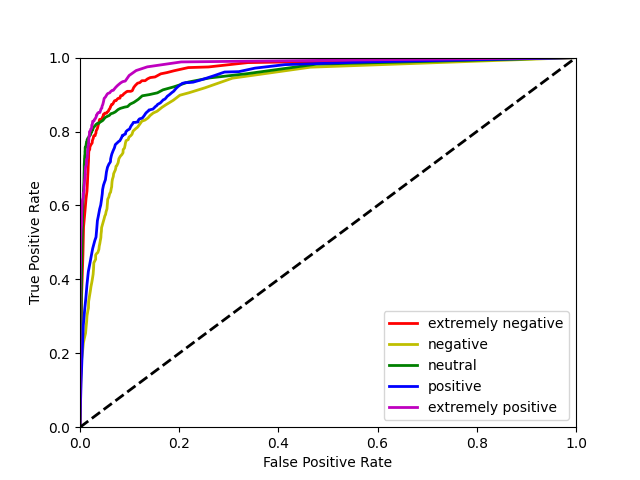
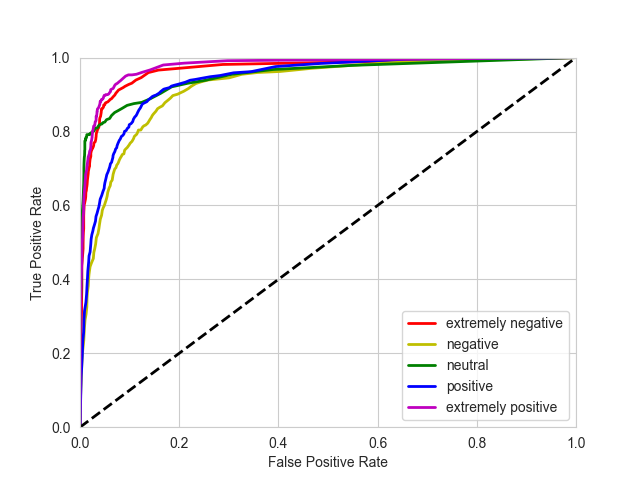
Added final results refactor

diff --git a/src/util/extraction.py b/src/util/extraction.py
@@ -1,5 +1,10 @@
 import numpy as np
 import tensorflow as tf
+import pandas as pd
+from cycler import cycler
+from tabulate import tabulate
+import matplotlib.pyplot as plt
+import seaborn as sns
 from unicodedata import category as unicat
 from nltk.probability import FreqDist
 from sklearn.base import BaseEstimator, TransformerMixin
@@ -8,7 +13,10 @@ from keras.preprocessing import sequence
 from tensorflow.keras import activations
 
 from src.util.loading import load_simple_sentence_dataset
-from src.util import softmax_output_to_list_label_by_maximum
+from src.util.util import softmax_output_to_list_label_by_maximum, list_label_to_number_label, \
+    class_number_to_string_label
+
+sns.set_style('whitegrid')
 
 
 class WordLexicolizer(BaseEstimator, TransformerMixin):
@@ -18,12 +26,12 @@ class WordLexicolizer(BaseEstimator, TransformerMixin):
 	and a document length limited/padded to doclen
 	"""
 
-    def __init__(self, nfeatures=100000, doclen=60, normalizers= []):
+    def __init__(self, nfeatures=100000, doclen=60, normalizers=[]):
         self.nfeatures = nfeatures
         self.doclen = doclen
         self.normalizers = normalizers
         self.lexicon = None
-        
+
     def normalize(self, doc):
         for norm in self.normalizers:
             doc = norm(doc)
@@ -45,15 +53,15 @@ class WordLexicolizer(BaseEstimator, TransformerMixin):
 		"""
         return [
             self.lexicon[token]
-            if token in self.lexicon.keys() else 0 # Unknown reserved as 0
+            if token in self.lexicon.keys() else 0  # Unknown reserved as 0
             for token in norm_doc
         ]
-    
-    def fit(self, documents, y= None):
+
+    def fit(self, documents, y=None):
         docs = [list(self.normalize(doc)) for doc in documents]
         self.lexicon = self.get_lexicon(docs)
         print('The most common word according to the encoding is: ')
-        print([t[0] for t in sorted(self.lexicon.items(), key= lambda i: i[1])][:100])
+        print([t[0] for t in sorted(self.lexicon.items(), key=lambda i: i[1])][:100])
         return self
 
     def transform(self, documents):
@@ -78,7 +86,7 @@ class ResultsExtractor:
         self.logits = logits
         ___, ___, ___, self.test_y = load_simple_sentence_dataset()
 
-    def retrieve_per_class_roc(self):
+    def __retrieve_per_class_roc(self):
         """
         Function that retrieves a per-class list of touples containing TPR and FPR arrays
         with values through all possible thresholds ranging from 0 -> 1.
@@ -113,7 +121,7 @@ class ResultsExtractor:
 
         return class_list_of_tpr_and_fpr
 
-    def retrieve_per_class_metrics(self):
+    def __retrieve_per_class_metrics(self):
         """
         Function that retrieves a per-class list of metrics
         """
@@ -149,7 +157,8 @@ class ResultsExtractor:
 
         return per_class_metrics
 
-    def retrieve_total_metrics(self):
+    # noinspection PyPackageRequirements
+    def __retrieve_total_metrics(self):
         """
         Function that retrieves a total metrics
         """
@@ -183,3 +192,95 @@ class ResultsExtractor:
         }
 
         return total_metrics
+
+    def save_confusion_matrix(self, filepath: str):
+        predictions = np.array(tf.math.softmax(self.logits).numpy())
+        predictions = np.array(softmax_output_to_list_label_by_maximum(predictions)).astype(np.int)
+        predictions = np.array([list_label_to_number_label(label) for label in predictions])
+        test_y = np.array([list_label_to_number_label(label) for label in self.test_y])
+
+        plt.figure()
+        plt.title('Test')
+        tick_labels = ['Extremely\nNegative', 'Negative', 'Neutral', 'Positive', 'Extremely\nPositive']
+        crosstab = pd.crosstab(test_y, predictions).fillna(0).astype(int)
+        crosstab.columns.name = ''
+        crosstab.index.name = ''
+        sns.heatmap(
+            crosstab,
+            annot=True,
+            fmt='d',
+            xticklabels=tick_labels,
+            yticklabels=tick_labels
+        )
+        plt.yticks(va='center')
+        plt.tight_layout()
+        plt.savefig(filepath + '/' + 'confusion_matrix.png')
+
+    def save_per_class_roc_curves(self, filepath: str):
+        """
+        Function that takes in a per-class list with FPR and TPR sequences throughout thresholding.
+        From this it generates a ROC curve plot per class.
+        """
+        per_class_roc_curves = self.__retrieve_per_class_roc()
+
+        plt.figure()
+        plt.rc('axes', prop_cycle=(cycler('color', ['r', 'y', 'g', 'b', 'm'])))
+        for class_number, (tpr, fpr) in enumerate(per_class_roc_curves):
+            plt.plot(fpr, tpr, lw=2, label=class_number_to_string_label(class_number).lower())
+        plt.plot([0, 1], [0, 1], color='black', lw=2, linestyle='--')
+        plt.xlim([0.0, 1.0])
+        plt.ylim([0.0, 1.0])
+        plt.xlabel('False Positive Rate')
+        plt.ylabel('True Positive Rate')
+        plt.legend()
+        plt.savefig(filepath + '/' + 'per_class_roc_curves.png')
+
+    def save_per_class_metrics(self, filepath: str):
+        per_class_metrics = self.__retrieve_per_class_metrics()
+
+        header = ["Metric"]
+        for class_number, class_metric in enumerate(per_class_metrics):
+            header.append("Class [" + class_number_to_string_label(class_number) + "]")
+
+        row_list = []
+        for index, metric_name in enumerate(list(per_class_metrics[0].keys())):
+            row_list.append([metric_name])
+        for index, row in enumerate(row_list):
+            for class_number, class_metric in enumerate(per_class_metrics):
+                row_list[index].append('{:.2f}'.format(class_metric[row_list[index][0]]))
+
+        tabular: str = tabulate(row_list, headers=header, tablefmt='orgtbl', numalign="right", floatfmt=".2f")
+
+        with open(filepath + '/' + 'per_class_metrics.txt', 'w') as file:
+            file.write(tabular)
+            file.close()
+
+    def save_macro_averaged_metrics(self, filepath: str):
+        per_class_metrics = self.__retrieve_per_class_metrics()
+        header = ["Metric", "Macro-Averaging"]
+
+        row_list = []
+        for index, metric_name in enumerate(list(per_class_metrics[0].keys())):
+            row_list.append([metric_name])
+
+            macro_number = 0
+            number_of_classes = len(per_class_metrics)
+            for class_number in range(0, number_of_classes):
+                macro_number += per_class_metrics[class_number][metric_name]
+            macro_number /= number_of_classes
+            row_list[index].append('{:.2f}'.format(macro_number))
+
+        tabular: str = tabulate(row_list, headers=header, tablefmt='orgtbl', numalign="right", floatfmt=".2f")
+
+        with open(filepath + '/' + 'macro_metrics.txt', 'w') as file:
+            file.write(tabular)
+            file.close()
+
+    @staticmethod
+    def save_best_hyperparameters(hyperparameters, filepath: str):
+        with open(filepath + '/' + 'best_hyperparameters.txt', 'w') as file:
+            file.write('embedding_output_dim: {:.5f}\n'.format(hyperparameters.get('embedding_output_dim')))
+            file.write('gru_hidden_units: {:.5f}\n'.format(hyperparameters.get('gru_hidden_units')))
+            file.write('gru_dropout: {:.5f}\n'.format(hyperparameters.get('gru_dropout')))
+            file.write('learning_rate: {:.5f}\n'.format(hyperparameters.get('learning_rate')))
+            file.close()

diff --git a/src/scripts/run_gru_simple.py b/src/scripts/run_gru_simple.py
@@ -1,4 +1,5 @@
 import os
+import pandas as pd
 import numpy as np
 import tensorflow as tf
 import kerastuner as kt
@@ -9,7 +10,6 @@ from src.util.constants import *
 from src.util.extraction import ResultsExtractor
 from src.util.generation import Generator
 from src.util.loading import load_simple_sentence_dataset
-from src.util.visualization import *
 
 os.environ["TF_FORCE_GPU_ALLOW_GROWTH"] = "true"
 physical_devices = tf.config.list_physical_devices('GPU')
@@ -66,7 +66,8 @@ model.save(PATH_TO_MODEL_GRU_SIMPLE_SAVE)
 # Save the results
 predictions = model.predict(x=test_x)
 results = ResultsExtractor(predictions)
-save_macro_averaged_metrics(results.retrieve_per_class_metrics(), PATH_TO_RESULT_GRU_SIMPLE)
-save_per_class_metrics(results.retrieve_per_class_metrics(), PATH_TO_RESULT_GRU_SIMPLE)
-save_per_class_roc_curves(results.retrieve_per_class_roc(), PATH_TO_RESULT_GRU_SIMPLE)
-save_best_hyperparameters(best_hyperparameters, PATH_TO_RESULT_GRU_SIMPLE)
+results.save_per_class_roc_curves(PATH_TO_RESULT_GRU_SIMPLE)
+results.save_confusion_matrix(PATH_TO_RESULT_GRU_SIMPLE)
+results.save_per_class_metrics(PATH_TO_RESULT_GRU_SIMPLE)
+results.save_macro_averaged_metrics(PATH_TO_RESULT_GRU_SIMPLE)
+results.save_best_hyperparameters(best_hyperparameters, PATH_TO_RESULT_GRU_SIMPLE)

diff --git a/src/scripts/run_gru_bidirectional.py b/src/scripts/run_gru_bidirectional.py
@@ -9,7 +9,6 @@ from src.util.constants import *
 from src.util.extraction import ResultsExtractor
 from src.util.generation import Generator
 from src.util.loading import load_simple_sentence_dataset
-from src.util.visualization import *
 
 os.environ["TF_FORCE_GPU_ALLOW_GROWTH"] = "true"
 physical_devices = tf.config.list_physical_devices('GPU')
@@ -66,7 +65,8 @@ model.save(PATH_TO_MODEL_GRU_BIDIRECTIONAL_SAVE)
 # Save the results
 predictions = model.predict(x=test_x)
 results = ResultsExtractor(predictions)
-save_macro_averaged_metrics(results.retrieve_per_class_metrics(), PATH_TO_RESULT_GRU_BIDIRECTIONAL)
-save_per_class_metrics(results.retrieve_per_class_metrics(), PATH_TO_RESULT_GRU_BIDIRECTIONAL)
-save_per_class_roc_curves(results.retrieve_per_class_roc(), PATH_TO_RESULT_GRU_BIDIRECTIONAL)
-save_best_hyperparameters(best_hyperparameters, PATH_TO_RESULT_GRU_BIDIRECTIONAL)
+results.save_per_class_roc_curves(PATH_TO_RESULT_GRU_BIDIRECTIONAL)
+results.save_confusion_matrix(PATH_TO_RESULT_GRU_BIDIRECTIONAL)
+results.save_per_class_metrics(PATH_TO_RESULT_GRU_BIDIRECTIONAL)
+results.save_macro_averaged_metrics(PATH_TO_RESULT_GRU_BIDIRECTIONAL)
+results.save_best_hyperparameters(best_hyperparameters, PATH_TO_RESULT_GRU_BIDIRECTIONAL)

diff --git a/src/scripts/run_bert.py b/src/scripts/run_bert.py
@@ -7,7 +7,6 @@ from transformers import TFBertForSequenceClassification
 from src.util.constants import *
 from src.util.extraction import ResultsExtractor
 from src.util.loading import load_simple_sentence_dataset
-from src.util.visualization import *
 
 os.environ["TF_FORCE_GPU_ALLOW_GROWTH"] = "true"
 physical_devices = tf.config.list_physical_devices('GPU')
@@ -48,6 +47,7 @@ model.save_pretrained(PATH_TO_MODEL_TRANSFORMER_BERT_SAVE)
 # Save the results
 predictions = model.predict(x=test_x.values())[0]
 results = ResultsExtractor(predictions)
-save_macro_averaged_metrics(results.retrieve_per_class_metrics(), PATH_TO_RESULT_TRANSFORMER_BERT)
-save_per_class_metrics(results.retrieve_per_class_metrics(), PATH_TO_RESULT_TRANSFORMER_BERT)
-save_per_class_roc_curves(results.retrieve_per_class_roc(), PATH_TO_RESULT_TRANSFORMER_BERT)
+results.save_per_class_roc_curves(PATH_TO_RESULT_TRANSFORMER_BERT)
+results.save_confusion_matrix(PATH_TO_RESULT_TRANSFORMER_BERT)
+results.save_per_class_metrics(PATH_TO_RESULT_TRANSFORMER_BERT)
+results.save_macro_averaged_metrics(PATH_TO_RESULT_TRANSFORMER_BERT)

diff --git a/src/util/util.py b/src/util/util.py
@@ -99,6 +99,10 @@ def list_label_to_string_label(label: list):
     }[label]
 
 
+def list_label_to_number_label(label: list):
+    return np.where(label)[0][0]
+
+
 def class_number_to_string_label(class_number: int):
     return {
         0: 'EXTREMELY NEGATIVE',
